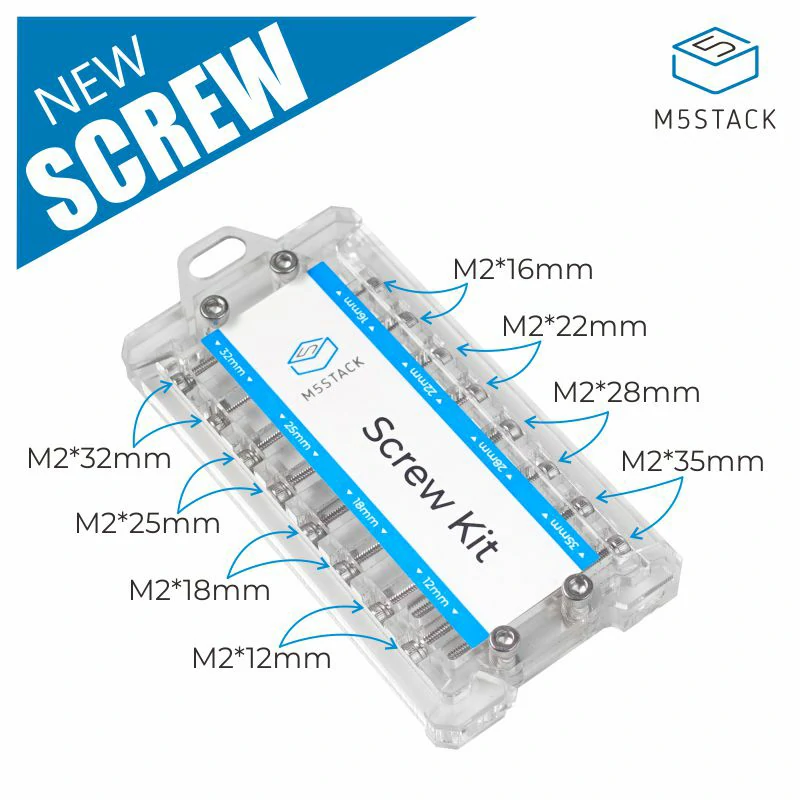
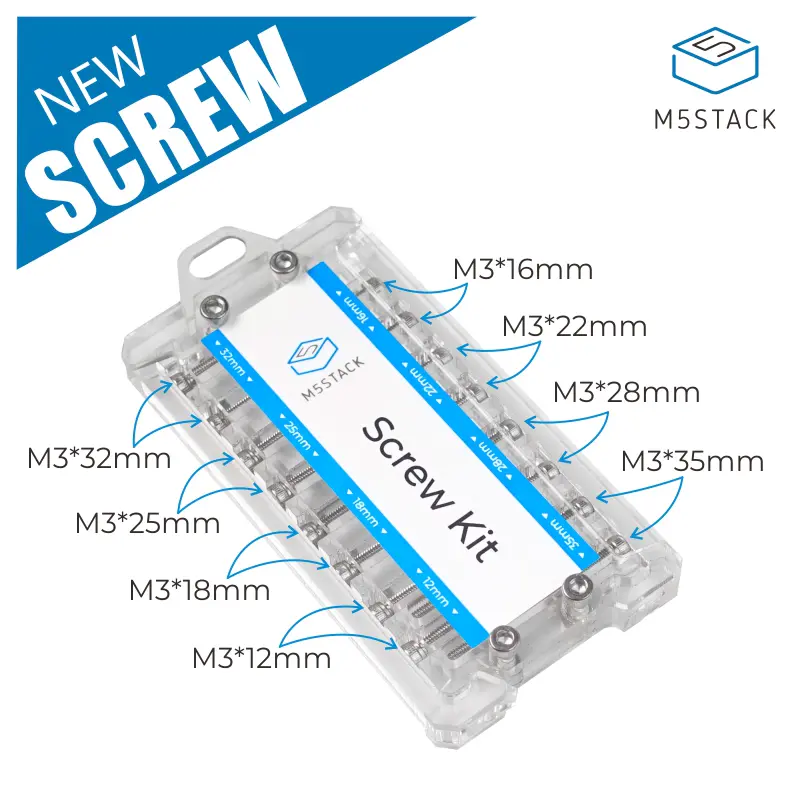
add bala2

diff --git a/docs/en/accessory/screw.md b/docs/en/accessory/screw.md
@@ -7,7 +7,7 @@
 
 ## Description
 
-**SCREW** would be a necessary tool used on M5Stack development. If you having multiple layers stacked up and you might want fix them up with something. Here comes this SCREW Accessory Kit, packed with 4 different length of M3 screws and an Allen Key. Got this sutff will definately help you making more complicated and organized work around M5Stack.
+**SCREW** would be a necessary tool used on M5Stack development. If you having multiple layers stacked up and you might want fix them up with something. Here comes this SCREW Accessory Kit, packed with different length of M3 screws. Got this sutff will definately help you making more complicated and organized work around M5Stack.
 
 ##  Product Features
 

diff --git a/docs/zh_CN/uiflow/Modules.md b/docs/zh_CN/uiflow/Modules.md
@@ -309,9 +309,9 @@ Module的I2C地址
 
 #### 使用方法
 
-> 显示编码器状态
+> 读取数字量、模拟量、控制舵机与电机
 
-><img src="/image/Modules/GoPlus_user.webp" width="70%"> 
+><img src="/image/Modules/GoPlus_user.webp"> 
 
 ## GPS
 
@@ -319,7 +319,7 @@ Module的I2C地址
 
 > 获取GPS信息
 
-><img src="/image/Units/GPS.webp" width="50%"> 
+><img src="/image/Modules/gps.webp" width="50%"> 
 
 * __get time__
 获取本地时间
@@ -349,4 +349,4 @@ Module的I2C地址
 
 > 在屏幕上显示GPS相关信息
 
-><img src="/image/Units/GPS_user.webp" width="80%"> 
+><img src="/image/Modules/GPS_user.webp" width="80%">

diff --git a/docs/zh_CN/quick_start/bala2/bala2_quick_start.md b/docs/zh_CN/quick_start/bala2/bala2_quick_start.md
@@ -16,8 +16,8 @@
 
 ## Arduino IDE编辑
 
-1. [Mac用户]参考此教程配置Arduino IDE(#/zh_CN/arduino/arduino_development.md)
-   [Windows用户]参考此教程配置Arduino IDE(#/zh_CN/arduino/arduino_development.md)
+1. [Mac用户]参考此教程配置[Arduino IDE](zh_CN/arduino/arduino_development)
+   [Windows用户]参考此教程[配置Arduino IDE](zh_CN/arduino/arduino_development)
 
 2. [下载示例程序](https://github.com/m5stack/M5-ProductExampleCodes/tree/master/Application/Bala2)
 

diff --git a/docs/zh_CN/unit/imu.md b/docs/zh_CN/unit/imu.md
@@ -20,7 +20,7 @@
 ## 包含
 
 - 1x 6-Axis IMU Unit
-- 1x Grove 线(5cm)
+- 1x Grove Cable (5cm)
 
 ## 应用
 
